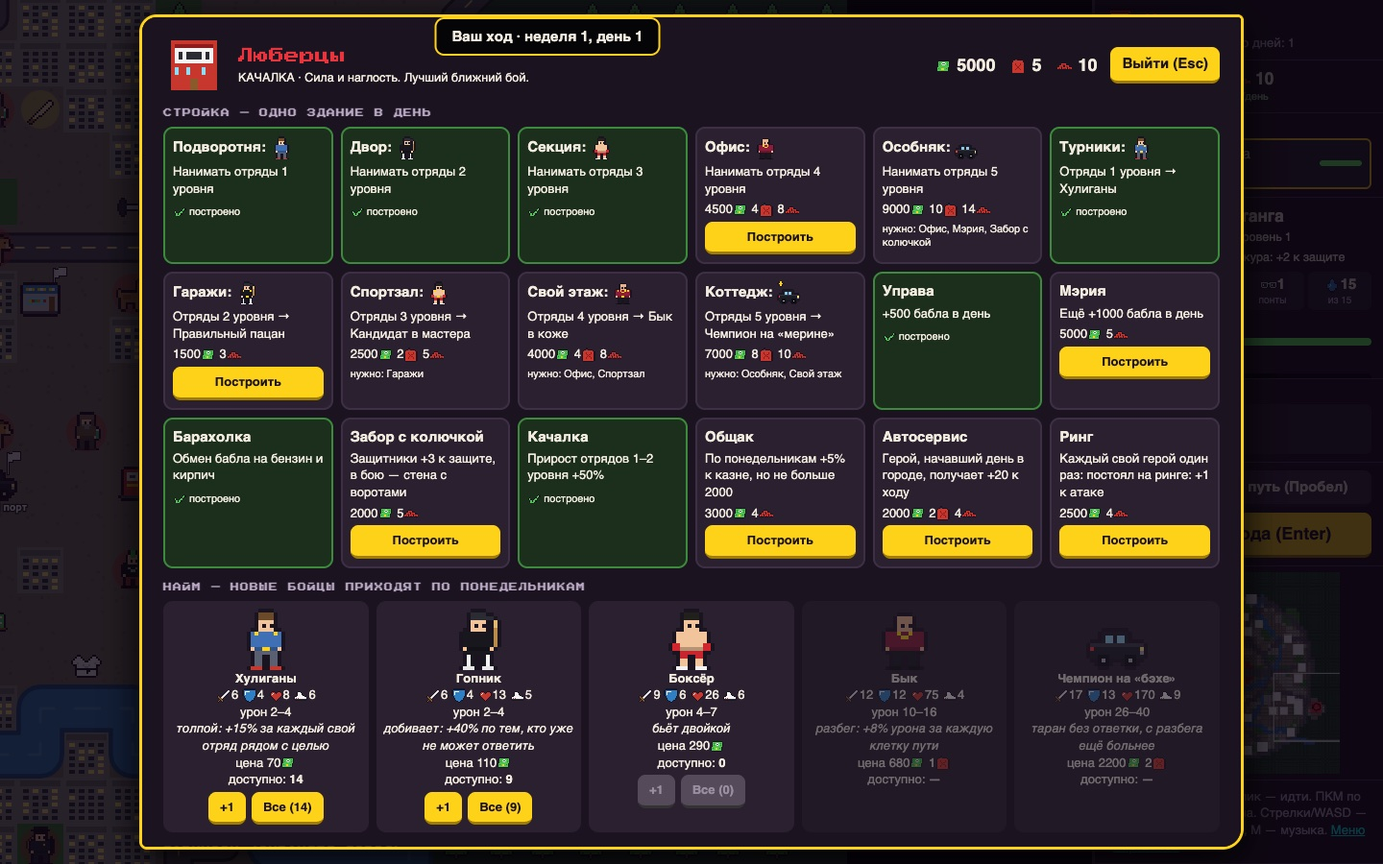
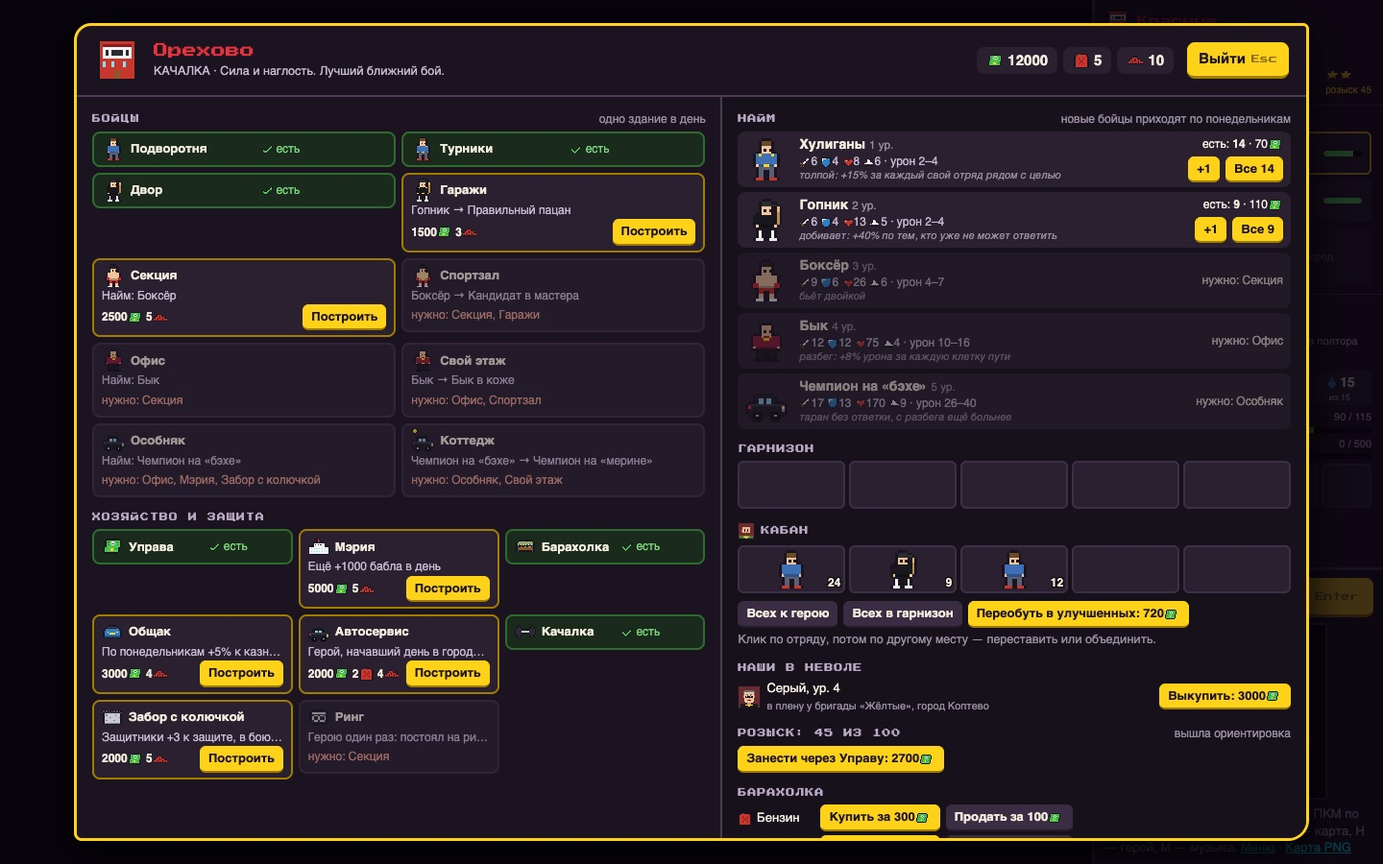
Вёрстка: окно города в две колонки, боковая панель с закреплёнными кнопками хода (#16)
Окно города: шапка с ресурсами; слева стройка — пары «найм + улучшение» по
уровням и хозяйство с защитой, построенное сворачивается в одну строку;
справа найм строками, гарнизон, герой, пленные, розыск и барахолка.
Каждая колонка прокручивается сама и не сбрасывает прокрутку при покупке.
Тост «Ваш ход» больше не налезает на окно.

Боковая панель: имя и ресурсы сверху, середина (герои, карточка героя,
города) прокручивается, кнопки хода и миникарта всегда внизу. Карточка героя
компактнее. На миникарте неразведанный город виден тёмным силуэтом.

Полосы прокрутки — в цвет игры. tests/layout.mjs снимает вёрстку на трёх
размерах окна.

diff --git a/js/screens.js b/js/screens.js
@@ -38,40 +38,64 @@ function bindSlots(root, armies, rerender) {
 // ---------- город ----------
 let townDone = null;
 function openTown(t, hero) {
-  return new Promise(res => { SLOT = null; townDone = res; $('town').hidden = false; renderTown(t, hero); });
+  return new Promise(res => { SLOT = null; townDone = res; $('town').hidden = false; $('toast').style.opacity = 0; renderTown(t, hero); });
 }
 function closeTown() { $('town').hidden = true; SLOT = null; refresh(); if (townDone) { const r = townDone; townDone = null; r(); } }
+// значки зданий хозяйства и защиты
+const BICON = { adm1: 'r_gold', adm2: 'whitehouse', market: 'stall', bank: 'chest', garage: 'champ', gym: 'b_att', fence: 'o_fence', club: 'amp' };
 function renderTown(t, hero) {
+  const keep = [...document.querySelectorAll('#townBox .tcol')].map(c => c.scrollTop);
   hero = hero && heroById(hero.id) && hero.x === t.x && hero.y === t.y ? hero : heroAt(t.x, t.y);
   if (hero && hero.owner !== t.owner) hero = null;
-  const p = G.players[t.owner], F = FACTIONS[t.fac], units = F.units;
-  const bcard = b => {
-    const st = buildState(t, b), need = [].concat(b.req || []).filter(r => !t.built[r]).map(r => BLD[r].name).join(', ');
-    const label = { built: `${ico('i_ok', 14)} построено`, req: `нужно: ${need}`, today: 'сегодня уже строили', money: 'не хватает', ok: '' }[st];
-    const name = b.tier ? `${b.name}: ${unitIcon(units[b.tier - 1], 24)}` : b.up ? `${b.name}: ${unitIcon(units[b.up - 1] + '2', 24)}` : b.id === 'club' ? F.club.name : b.name;
-    const desc = b.up ? `Отряды ${b.up} уровня → ${UNITS[units[b.up - 1] + '2'].name}` : b.id === 'club' ? `Каждый свой герой один раз: ${F.club.text}` : b.desc;
-    return `<div class="bcard ${st === 'built' ? 'built' : ''}"><b>${name}</b><span>${desc}</span><span>${st === 'built' ? '' : costText(b.cost)}</span>${st === 'ok' ? `<button data-b="${b.id}">Построить</button>` : `<small>${label}</small>`}</div>`;
+  const p = G.players[t.owner], F = FACTIONS[t.fac], units = F.units, today = t.builtDay === G.day;
+  // плитка постройки: значок и имя, одна строка описания, внизу цена с кнопкой — или что мешает
+  const tile = id => {
+    const b = BLD[id], st = buildState(t, b), need = [].concat(b.req || []).filter(r => !t.built[r]).map(r => BLD[r].name).join(', ');
+    const icon = b.tier ? unitIcon(units[b.tier - 1], 24) : b.up ? unitIcon(units[b.up - 1] + '2', 24) : ico(BICON[id] || 'i_ok', 22);
+    const name = b.id === 'club' ? F.club.name : b.name;
+    const desc = b.tier ? `Найм: ${UNITS[units[b.tier - 1]].name}` : b.up ? `${UNITS[units[b.up - 1]].name} → ${UNITS[units[b.up - 1] + '2'].name}` : b.id === 'club' ? `Герою один раз: ${F.club.text}` : b.desc;
+    const foot = st === 'built' ? `${ico('i_ok', 12)} построено`
+      : st === 'req' ? `<span class="need" title="нужно: ${need}">нужно: ${need}</span>`
+        : `<span class="cost">${costText(b.cost)}</span>${st === 'ok' ? `<button class="sm" data-b="${b.id}">Построить</button>` : `<span class="note">${st === 'today' ? 'завтра' : 'не хватает'}</span>`}`;
+    return `<div class="bt ${st === 'built' ? 'built' : st === 'ok' ? 'ok' : st === 'req' ? 'lock' : ''}" title="${name}: ${desc}"><div class="t1">${icon}<span>${name}</span>${st === 'built' ? `<span class="done">${ico('i_ok', 12)} есть</span>` : ''}</div><div class="ds">${desc}</div><div class="ft">${foot}</div></div>`;
   };
-  const rcard = (u, i) => {
+  // строка найма: боец, его цифры и особенность, справа — сколько есть и кнопки
+  const rrow = (u, i) => {
     const v = townUnit(t, i), U = UNITS[v], ok = t.built['dw' + (i + 1)], n = t.avail[u] || 0, mx = maxRecruit(t, u);
-    return `<div class="rcard ${ok ? '' : 'lock'}"><div class="em">${unitIcon(v, 64)}</div><b>${U.name}</b><br>${ico('i_att', 16)}${U.att} ${ico('i_def', 16)}${U.def} ${ico('i_hp', 16)}${U.hp} ${ico('i_spd', 16)}${U.spd}<br>урон ${U.dmg[0]}–${U.dmg[1]}${U.shots ? ' · стрелок' : ''}${U.fly ? ' · прыгает' : ''}<br><i>${U.note || '&nbsp;'}</i><br>
-      цена ${costText(U.cost)}<br>доступно: <b>${ok ? n : '—'}</b><br>${ok ? `<div class="btns" style="justify-content:center;margin-top:4px"><button data-r="${u}" data-n="1" ${mx ? '' : 'disabled'}>+1</button><button data-r="${u}" data-n="${mx}" ${mx ? '' : 'disabled'}>Все (${mx})</button></div>` : ''}</div>`;
+    const act = ok ? `<span>есть: <b>${n}</b> · ${costText(U.cost)}</span><div class="btns"><button class="sm" data-r="${u}" data-n="1" ${mx ? '' : 'disabled'}>+1</button><button class="sm" data-r="${u}" data-n="${mx}" ${mx ? '' : 'disabled'}>Все ${mx}</button></div>`
+      : `<span class="need">нужно: ${BLD['dw' + (i + 1)].name}</span>`;
+    return `<div class="rr ${ok ? '' : 'lock'}"><span class="ic">${unitIcon(v, 44)}</span><span class="nm">${U.name} <small style="color:#9a8fa0;font-weight:normal">${i + 1} ур.</small></span>
+      <span class="st2">${ico('i_att', 12)}${U.att} ${ico('i_def', 12)}${U.def} ${ico('i_hp', 12)}${U.hp} ${ico('i_spd', 12)}${U.spd} · урон ${U.dmg[0]}–${U.dmg[1]}${U.shots ? ` · ${ico('i_shot', 12)}${U.shots}` : ''}</span>
+      <span class="tr" title="${U.note || ''}">${U.note || ''}</span><span class="act">${act}</span></div>`;
   };
   const upList = [...t.garrison, ...(hero ? hero.army : [])].map(x => upgradeCost(t, x)).filter(Boolean), upSum = upList.reduce((a, c) => a + c, 0), upMin = upList.length ? Math.min(...upList) : 0;
   const jl = myJailed(t.owner), held = jail().filter(j => j.at === t.id && j.captor === t.owner && j.hero.owner !== t.owner);
-  const jailHtml = jl.length ? `<h3>Наши в неволе</h3><div class="btns" style="margin-bottom:10px">${jl.map((j, k) => `<button class="sec" data-ran="${k}">${heroIco(j.hero, 24)} ${j.hero.name}, ур. ${j.hero.lvl} — ${jailPlace(j)} · ${ransomOf(j) ? `выкуп ${ransomOf(j)}${resIco('gold', 16)}` : 'позвать бесплатно'}</button>`).join('')}</div>` : '';
-  const heldHtml = held.length ? `<div style="margin-bottom:10px"><small>В этом городе держат пленных: ${held.map(j => `${j.hero.name} (${G.players[j.hero.owner].name}), выкуп ${ransomOf(j)}`).join('; ')}. Возьмут город — пленные уйдут.</small></div>` : '';
-  const heatHtml = (p.heat || 0) >= 10 ? `<h3>Розыск: ${p.heat} из 100${p.heat >= HEAT_RAID ? ' — в понедельник приедет ОМОН' : p.heat >= HEAT_WARN ? ' — на бригаду вышла ориентировка' : ''}</h3><div class="btns" style="margin-bottom:10px">${t.built.adm1 ? `<button id="bribeBtn" ${p.res.gold >= bribeCost(p) ? '' : 'disabled'}>Занести через Управу: ${bribeCost(p)}${resIco('gold', 16)} — розыск снят</button>` : '<small>Откупиться можно в городе с Управой</small>'}</div>` : '';
-  const market = t.built.market ? `<h3>Барахолка${G.def && G.def.done ? ' — после дефолта всё втрое дороже' : ''}</h3><div class="btns">${['fuel', 'brick'].map(r => `<button data-buy="${r}">Купить ${resIco(r)} за ${tradeBuy()}${resIco('gold', 16)}</button><button class="sec" data-sell="${r}">Продать ${resIco(r)} за ${tradeSell()}${resIco('gold', 16)}</button>`).join('')}</div>` : '';
+  const extra = [
+    jl.length ? `<div class="sect"><h3>Наши в неволе</h3>${jl.map((j, k) => `<div class="mrow">${heroIco(j.hero, 24)}<span style="flex:1">${j.hero.name}, ур. ${j.hero.lvl}<br><small style="color:#9a8fa0">${jailPlace(j)}</small></span><button class="sm" data-ran="${k}">${ransomOf(j) ? `Выкупить: ${ransomOf(j)}${resIco('gold', 14)}` : 'Позвать'}</button></div>`).join('')}</div>` : '',
+    held.length ? `<div class="sect"><small style="color:#c9bcd2">Здесь держат пленных: ${held.map(j => `${j.hero.name} (${G.players[j.hero.owner].name}), выкуп ${ransomOf(j)}`).join('; ')}. Возьмут город — пленные уйдут.</small></div>` : '',
+    (p.heat || 0) >= 10 ? `<div class="sect"><h3>Розыск: ${p.heat} из 100<span>${p.heat >= HEAT_RAID ? 'в понедельник приедет ОМОН' : p.heat >= HEAT_WARN ? 'вышла ориентировка' : ''}</span></h3>${t.built.adm1 ? `<button class="sm" id="bribeBtn" ${p.res.gold >= bribeCost(p) ? '' : 'disabled'}>Занести через Управу: ${bribeCost(p)}${resIco('gold', 14)}</button>` : '<small style="color:#9a8fa0">Откупиться можно в городе с Управой</small>'}</div>` : '',
+    t.built.market ? `<div class="sect"><h3>Барахолка<span>${G.def && G.def.done ? 'после дефолта всё втрое дороже' : ''}</span></h3>${['fuel', 'brick'].map(r => `<div class="mrow"><span>${resIco(r, 16)} ${RES_NAME[r]}</span><button class="sm" data-buy="${r}">Купить за ${tradeBuy()}${resIco('gold', 14)}</button><button class="sec sm" data-sell="${r}">Продать за ${tradeSell()}${resIco('gold', 14)}</button></div>`).join('')}</div>` : '',
+  ].join('');
   $('townBox').innerHTML = `
-    <div style="display:flex;align-items:center;gap:14px">${ico('t_' + t.fac, 64)}<div><div class="fun" style="font-size:16px;color:${p.col}">${t.name}</div><small>${F.name} · ${F.desc}</small></div>
-      <div style="margin-left:auto;font-size:18px;font-weight:bold">${RES.map(r => `${resIco(r)} ${p.res[r]}`).join(' &nbsp; ')}</div><button id="tClose">Выйти (Esc)</button></div>
-    <h3 style="margin-top:12px">Стройка — одно здание в день</h3><div class="tgrid">${BUILDINGS.map(bcard).join('')}</div>
-    <h3>Найм — новые бойцы приходят по понедельникам</h3><div class="rgrid">${units.map(rcard).join('')}</div>
-    <div class="row">${armyRow(t.garrison, 'g', 'Гарнизон (охраняет город)')}${hero ? armyRow(hero.army, 'h', `${heroIco(hero, 24)} ${hero.name}`) : ''}</div>
-    <div class="btns" style="margin:10px 0">${hero ? '<button class="sec" id="allH">Всех к герою</button><button class="sec" id="allG">Всех в гарнизон</button>' : `<button id="hire">Нанять героя за ${HERO_COST}${resIco('gold', 16)}</button>`}${upSum ? `<button id="upAll" ${p.res.gold >= upMin ? '' : 'disabled'}>Переобуть отряды в улучшенных: ${upSum}${resIco('gold', 16)}</button>` : ''}<small style="align-self:center">Клик по отряду, потом по другому месту — переставить или объединить.</small></div>
-    ${jailHtml}${heldHtml}${heatHtml}
-    ${market}`;
+    <div class="th">${ico('t_' + t.fac, 48)}<div><div class="nm" style="color:${p.col}">${t.name}</div><small>${F.name} · ${F.desc}</small></div>
+      <div class="chips">${RES.map(r => `<span class="chip">${resIco(r, 18)} ${p.res[r]}</span>`).join('')}</div><button id="tClose">Выйти <kbd>Esc</kbd></button></div>
+    <div class="tb">
+      <div class="tcol">
+        <h3>Бойцы<span>${today ? 'сегодня уже строили — следующее здание завтра' : 'одно здание в день'}</span></h3>
+        <div class="bgrid">${[1, 2, 3, 4, 5].map(i => tile('dw' + i) + tile('up' + i)).join('')}</div>
+        <h3>Хозяйство и защита</h3><div class="bgrid b3">${['adm1', 'adm2', 'market', 'bank', 'garage', 'gym', 'fence', 'club'].map(tile).join('')}</div>
+      </div>
+      <div class="tcol">
+        <h3>Найм<span>новые бойцы приходят по понедельникам</span></h3>
+        ${units.map(rrow).join('')}
+        <div class="sect">${armyRow(t.garrison, 'g', 'Гарнизон')}</div>
+        <div class="sect">${hero ? armyRow(hero.army, 'h', `${heroIco(hero, 18)} ${hero.name}`) : `<h3>Героя в городе нет</h3>`}</div>
+        <div class="btns" style="margin-top:8px">${hero ? '<button class="sec sm" id="allH">Всех к герою</button><button class="sec sm" id="allG">Всех в гарнизон</button>' : `<button class="sm" id="hire">Нанять героя: ${HERO_COST}${resIco('gold', 14)}</button>`}${upSum ? `<button class="sm" id="upAll" ${p.res.gold >= upMin ? '' : 'disabled'}>Переобуть в улучшенных: ${upSum}${resIco('gold', 14)}</button>` : ''}</div>
+        <small style="color:#9a8fa0;display:block;margin-top:4px">Клик по отряду, потом по другому месту — переставить или объединить.</small>
+        ${extra}
+      </div>
+    </div>`;
+  document.querySelectorAll('#townBox .tcol').forEach((c, i) => { c.scrollTop = keep[i] || 0; });
   const R = () => renderTown(t, hero), box = $('townBox');
   $('tClose').onclick = closeTown;
   box.querySelectorAll('[data-ran]').forEach(el => el.onclick = () => { const r = ransom(t, jl[+el.dataset.ran]); if (typeof r === 'string') toast(r, true); else { selectHero(r); hero = r; } R(); });
@@ -98,7 +122,7 @@ function openExchange(a, b) {
   return new Promise(res => {
     SLOT = null; $('exch').hidden = false;
     const R = () => {
-      $('exchBox').innerHTML = `<div class="fun" style="font-size:16px;color:var(--gold)">Встреча</div><div class="row">${armyRow(a.army, 'a', `${heroIco(a, 24)} ${a.name}`)}${armyRow(b.army, 'b', `${heroIco(b, 24)} ${b.name}`)}</div>
+      $('exchBox').innerHTML = `<div class="fun" style="font-size:14px;color:var(--gold);margin-bottom:10px">${ico('i_meet', 20)} Встреча</div><small style="color:#9a8fa0;display:block;margin-bottom:8px">Клик по отряду, потом по другому месту — переставить или объединить.</small><div class="row">${armyRow(a.army, 'a', `${heroIco(a, 24)} ${a.name}`)}${armyRow(b.army, 'b', `${heroIco(b, 24)} ${b.name}`)}</div>
         <div class="btns" style="margin-top:12px"><button id="xClose">Готово</button></div>`;
       bindSlots($('exchBox'), { a: { arr: a.army, hero: true }, b: { arr: b.army, hero: true } }, R);
       $('xClose').onclick = () => { $('exch').hidden = true; refresh(); res(); };
@@ -145,8 +169,8 @@ $('bWait').onclick = () => battleWait();
 $('bDef').onclick = () => battleDefend();
 $('bCast').onclick = () => toggleSpells();
 $('bAuto').onclick = () => battleAuto();
-$('goBtn').innerHTML = `${ico('i_play', 16)} Продолжить путь (Пробел)`;
-$('endBtn').innerHTML = `${ico('i_next', 18)} Конец хода (Enter)`;
+$('goBtn').innerHTML = `${ico('i_play', 14)} Путь <kbd>␣</kbd>`;
+$('endBtn').innerHTML = `${ico('i_next', 16)} Конец хода <kbd>Enter</kbd>`;
 $('bWait').innerHTML = btnLbl('i_wait', 'Ждать', 'W');
 $('bDef').innerHTML = btnLbl('i_def', 'Оборона', 'D');
 $('bAuto').innerHTML = btnLbl('i_bot', 'Авто', 'A');

diff --git a/index.html b/index.html
@@ -14,43 +14,67 @@
   .fun { font-family: "Press Start 2P", "Courier New", monospace; line-height: 1.5; letter-spacing: 0; }
   .st { text-shadow: 2px 2px 0 #000, -2px 2px 0 #000, 2px -2px 0 #000, -2px -2px 0 #000; }
   #cv { position: fixed; left: 0; top: 0; }
+  /* полосы прокрутки — в цвет игры */
+  * { scrollbar-width: thin; scrollbar-color: #4a3a52 transparent; }
+  ::-webkit-scrollbar { width: 8px; height: 8px; }
+  ::-webkit-scrollbar-thumb { background: #4a3a52; border-radius: 4px; }
+  ::-webkit-scrollbar-thumb:hover { background: #6b5876; }
+  ::-webkit-scrollbar-track { background: transparent; }
+
+  /* ---------- боковая панель: шапка и ресурсы сверху, середина прокручивается, кнопки хода всегда внизу ---------- */
   #side { position: fixed; right: 0; top: 0; bottom: 0; width: 300px; background: var(--panel); border-left: 3px solid var(--line); display: flex; flex-direction: column; overflow: hidden; }
-  #side > div { padding: 8px 12px; border-bottom: 1px solid var(--line); }
-  #pName { font-size: 13px; }
-  #pDay { color: #b9a9c4; font-size: 13px; }
-  #pRes { display: flex; gap: 12px; font-size: 17px; font-weight: bold; }
-  #pRes small { display: block; font-size: 11px; color: #9fd89f; font-weight: normal; }
+  #sTop { padding: 10px 12px 6px; }
+  #pName { font-size: 12px; display: flex; align-items: center; gap: 8px; }
+  #pDay { color: #b9a9c4; font-size: 12px; margin-top: 4px; line-height: 1.4; }
+  #pRes { display: grid; grid-template-columns: repeat(4, auto); justify-content: space-between; padding: 6px 12px 8px; border-bottom: 1px solid var(--line); font-size: 15px; font-weight: bold; }
+  #pRes > div { display: flex; flex-direction: column; }
+  #pRes small { font-size: 10px; color: #9fd89f; font-weight: normal; }
+  #sScroll { flex: 1; min-height: 0; overflow-y: auto; }
+  #sScroll > section, #sScroll > div { padding: 8px 12px; border-bottom: 1px solid var(--line); }
+  #sScroll > div[hidden] { display: none; }
+  #sFoot { border-top: 3px solid var(--line); padding: 8px 10px; display: flex; flex-direction: column; gap: 6px; background: #17111c; }
+  #sFoot .row2 { display: grid; grid-template-columns: auto 1fr; gap: 6px; }
+  #goBtn { padding: 8px 10px; font-size: 13px; }
+  #endBtn { font-size: 15px; padding: 9px 10px; }
+  #mini { width: min(180px, 20vh); height: auto; margin: 0 auto; image-rendering: pixelated; cursor: pointer; display: block; border: 2px solid var(--line); border-radius: 4px; }
+  #help { font-size: 11px; color: #9a8fa0; line-height: 1.35; }
+  @media (max-height: 760px) { #help { display: none; } }
   .lst { display: flex; flex-direction: column; gap: 4px; }
-  .li { display: flex; align-items: center; gap: 8px; padding: 4px 8px; border-radius: 6px; background: #2a2030; cursor: pointer; border: 2px solid transparent; }
+  .li { display: flex; align-items: center; gap: 8px; padding: 3px 8px; border-radius: 6px; background: #2a2030; cursor: pointer; border: 2px solid transparent; font-size: 14px; line-height: 1.25; }
   .li:hover { background: #3a2c42; }
   .li.on { border-color: var(--gold); }
-  .li .em { font-size: 22px; }
-  .li .mpb { margin-left: auto; width: 44px; height: 6px; background: #000; border-radius: 3px; overflow: hidden; }
+  .li small { color: #b9a9c4; font-size: 11px; }
+  .li .mpb { margin-left: auto; width: 40px; height: 6px; background: #000; border-radius: 3px; overflow: hidden; flex: none; }
   .li .mpb i { display: block; height: 100%; background: #6f6; }
-  h3 { margin: 0 0 6px; font-size: 9px; color: #b9a9c4; text-transform: uppercase; letter-spacing: 1px; }
-  #hCard { flex: 1; overflow: auto; }
-  .stats { display: grid; grid-template-columns: repeat(4, 1fr); gap: 4px; text-align: center; font-weight: bold; margin: 6px 0; }
-  .stats div { background: #2a2030; border-radius: 6px; padding: 3px 0; }
-  .stats small { display: block; font-size: 10px; color: #b9a9c4; font-weight: normal; }
-  .bar { height: 8px; background: #000; border-radius: 4px; overflow: hidden; margin: 3px 0 6px; }
+  h3 { margin: 0 0 6px; font: 9px/1.5 "Press Start 2P", monospace; color: #b9a9c4; text-transform: uppercase; letter-spacing: 1px; }
+  /* карточка героя */
+  .hc-head { display: flex; gap: 10px; align-items: center; }
+  .hc-head img.spr { border-radius: 4px; flex: none; }
+  .hc-head b { font-size: 15px; display: block; }
+  .hc-head small { display: block; font-size: 11px; color: #c9bcd2; line-height: 1.3; }
+  .stats { display: grid; grid-template-columns: repeat(4, 1fr); gap: 4px; text-align: center; font-weight: bold; margin: 8px 0 6px; font-size: 14px; }
+  .stats div { background: #2a2030; border-radius: 6px; padding: 3px 0 2px; }
+  .stats small { display: block; font-size: 9px; color: #b9a9c4; font-weight: normal; }
+  .meter { display: flex; justify-content: space-between; font-size: 11px; color: #c9bcd2; }
+  .bar { height: 6px; background: #000; border-radius: 3px; overflow: hidden; margin: 2px 0 5px; }
   .bar i { display: block; height: 100%; }
   .slots { display: grid; grid-template-columns: repeat(5, 1fr); gap: 4px; }
-  .slot { height: 54px; background: #2a2030; border: 2px solid #3d3046; border-radius: 6px; position: relative; display: flex; align-items: center; justify-content: center; font-size: 26px; cursor: pointer; }
+  .slot { height: 50px; background: #2a2030; border: 2px solid #3d3046; border-radius: 6px; position: relative; display: flex; align-items: center; justify-content: center; cursor: pointer; }
+  .slots.sm .slot { height: 42px; cursor: default; }
+  .slot b { position: absolute; right: 3px; bottom: 1px; font-size: 12px; text-shadow: 1px 1px 0 #000, -1px -1px 0 #000, 1px -1px 0 #000, -1px 1px 0 #000; }
+  .slot.sel { border-color: var(--gold); background: #4a3a10; }
+  .arts { display: flex; flex-wrap: wrap; gap: 3px; margin-top: 6px; }
+  .arts small { color: #9a8fa0; font-size: 11px; }
   img.spr { image-rendering: pixelated; vertical-align: middle; }
   .dot { display: inline-block; width: 9px; height: 9px; border-radius: 50%; background: #6b6472; margin-right: 5px; vertical-align: middle; }
   .dot.on { background: #4cc552; }
   button img.spr { margin-right: 3px; }
-  .slot b { position: absolute; right: 3px; bottom: 1px; font-size: 13px; text-shadow: 1px 1px 0 #000, -1px -1px 0 #000; }
-  .slot.sel { border-color: var(--gold); background: #4a3a10; }
-  .arts { display: flex; flex-wrap: wrap; gap: 4px; margin-top: 6px; font-size: 22px; }
   .btns { display: flex; gap: 6px; flex-wrap: wrap; }
-  h3 { font-family: "Press Start 2P", monospace; }
   button { font: inherit; font-weight: bold; color: #1b1420; background: var(--gold); border: 0; border-bottom: 3px solid #a07c00; border-radius: 8px; padding: 7px 12px; cursor: pointer; }
   button:hover { filter: brightness(1.1); }
   button:disabled { background: #554a5a; color: #9a8fa0; border-color: #333; cursor: default; filter: none; }
   button.sec { background: #3a2c42; color: #f2ecdf; border-color: #241a2a; }
-  #endBtn { width: 100%; font-size: 18px; padding: 10px; }
-  #mini { width: 210px; margin: 6px auto; image-rendering: pixelated; cursor: pointer; display: block; }
+  button.sm { padding: 4px 9px; font-size: 13px; border-bottom-width: 2px; border-radius: 6px; }
   #toast { position: fixed; left: calc(50% - 150px); top: 18px; transform: translateX(-50%); background: rgba(0,0,0,.82); border: 2px solid var(--gold); border-radius: 10px; padding: 8px 16px; font-weight: bold; opacity: 0; transition: opacity .25s; pointer-events: none; z-index: 50; max-width: 60vw; text-align: center; }
   .ov { position: fixed; inset: 0; background: rgba(10,4,16,.78); display: flex; align-items: center; justify-content: center; z-index: 30; }
   .ov[hidden] { display: none; }
@@ -91,17 +115,52 @@
   .pcard a { color: #0ff; }
   .pcard button { padding: 4px 10px; font-size: 14px; }
   #lobbyNote { color: #c9bcd2; font-size: 14px; margin-bottom: 8px; min-height: 19px; }
-  #town .box, #exch .box { max-width: 1100px; width: 92vw; max-height: 92vh; overflow: auto; }
-  .tgrid { display: grid; grid-template-columns: repeat(6, 1fr); gap: 8px; margin: 8px 0 14px; }
-  .bcard { background: #2a2030; border-radius: 10px; padding: 8px; font-size: 13px; border: 2px solid #3d3046; display: flex; flex-direction: column; gap: 4px; }
-  .bcard b { font-size: 15px; }
-  .bcard.built { border-color: #3c8a3c; background: #1c2e1c; }
-  .rgrid { display: grid; grid-template-columns: repeat(5, 1fr); gap: 8px; margin: 8px 0 14px; }
-  .rcard { background: #2a2030; border-radius: 10px; padding: 8px; text-align: center; font-size: 13px; }
-  .rcard .em { font-size: 40px; }
-  .rcard.lock { opacity: .4; }
+  /* ---------- окно города: шапка, слева стройка, справа найм и армия; прокручивается каждая колонка сама ---------- */
+  #town .box { width: min(1280px, 95vw); height: min(860px, 94vh); max-width: none; padding: 0; display: flex; flex-direction: column; overflow: hidden; }
+  .th { display: flex; align-items: center; gap: 14px; padding: 12px 18px; border-bottom: 2px solid var(--line); }
+  .th .nm { font: 15px/1.4 "Press Start 2P", monospace; }
+  .th small { color: #c9bcd2; }
+  .chips { margin-left: auto; display: flex; gap: 6px; }
+  .chip { background: #2a2030; border-radius: 8px; padding: 4px 10px; font-weight: bold; font-size: 15px; display: flex; align-items: center; gap: 4px; }
+  .tb { flex: 1; min-height: 0; display: grid; grid-template-columns: 1.1fr 1fr; }
+  .tcol { overflow-y: auto; padding: 12px 16px 16px; }
+  .tcol + .tcol { border-left: 2px solid var(--line); background: #17111c; }
+  .tcol h3 { display: flex; justify-content: space-between; align-items: baseline; margin-top: 4px; }
+  .tcol h3 span { font: 12px -apple-system, "Segoe UI", sans-serif; text-transform: none; letter-spacing: 0; color: #9a8fa0; }
+  .bgrid { display: grid; grid-template-columns: 1fr 1fr; gap: 6px; margin-bottom: 14px; align-items: start; }
+  .bgrid.b3 { grid-template-columns: repeat(3, 1fr); }
+  .bt { background: #2a2030; border: 2px solid #3d3046; border-radius: 8px; padding: 4px 8px 5px; display: flex; flex-direction: column; gap: 1px; min-width: 0; font-size: 12px; }
+  .bt .t1 { display: flex; align-items: center; gap: 6px; font-weight: bold; font-size: 13px; min-height: 24px; }
+  .bt .t1 span { flex: 1; min-width: 0; white-space: nowrap; overflow: hidden; text-overflow: ellipsis; }
+  .bt .ds { color: #c9bcd2; white-space: nowrap; overflow: hidden; text-overflow: ellipsis; }
+  .bt .ft { display: flex; align-items: center; justify-content: space-between; gap: 6px; min-height: 22px; }
+  .bt .cost { white-space: nowrap; font-weight: bold; }
+  .bt .need { color: #e79a8a; white-space: nowrap; overflow: hidden; text-overflow: ellipsis; }
+  .bt .note { color: #9a8fa0; }
+  .bt.built { border-color: #2f6b2f; background: #1a2a1c; }
+  .bt.built .ds { display: none; }               /* построенное — одной строкой: имя и галочка */
+  .bt.built .t1 { justify-content: space-between; }
+  .bt.built .ft { display: none; }
+  .bt .done { color: #7dd87d; font-size: 12px; font-weight: normal; white-space: nowrap; }
+  .bt.built .ft { color: #7dd87d; }
+  .bt.ok { border-color: #a07c00; }
+  .bt.lock { opacity: .62; }
+  .rr { display: grid; grid-template-columns: 46px 1fr auto; gap: 0 10px; align-items: center; background: #2a2030; border-radius: 8px; padding: 4px 8px; margin-bottom: 5px; }
+  .rr .nm { font-weight: bold; font-size: 14px; }
+  .rr .st2 { font-size: 12px; color: #c9bcd2; white-space: nowrap; }
+  .rr .tr { font-size: 11px; color: #9a8fa0; font-style: italic; white-space: nowrap; overflow: hidden; text-overflow: ellipsis; }
+  .rr .act { grid-row: 1 / 4; grid-column: 3; display: flex; flex-direction: column; align-items: flex-end; gap: 4px; font-size: 12px; }
+  .rr .ic { grid-row: 1 / 4; }
+  .rr.lock { opacity: .5; }
+  .sect { margin-top: 14px; }
+  .mrow { display: flex; align-items: center; gap: 6px; margin-bottom: 4px; font-size: 13px; }
+  .mrow > span:first-child { min-width: 80px; }
+  /* ---------- обмен между героями ---------- */
+  #exch .box { width: min(760px, 94vw); }
   .row { display: flex; gap: 16px; align-items: flex-start; flex-wrap: wrap; }
-  .army { flex: 1; min-width: 300px; }
+  .army { flex: 1; min-width: 260px; }
+  .army h3 { justify-content: flex-start !important; gap: 6px; align-items: center !important; }
+  .tcol .slot { height: 46px; }
   #bui { position: fixed; left: 0; top: 0; bottom: 0; right: 300px; pointer-events: none; z-index: 20; }
   #bui[hidden] { display: none; }
   #bTop { position: absolute; left: 0; right: 0; top: 10px; text-align: center; font-size: 11px; font-weight: bold; }
@@ -141,18 +200,19 @@
 <canvas id="cv"></canvas>
 
 <div id="side">
-  <div><div id="pName" class="fun"></div><div id="pDay"></div></div>
+  <div id="sTop"><div id="pName" class="fun"></div><div id="pDay"></div></div>
   <div id="pRes"></div>
-  <div><h3>Герои</h3><div id="heroList" class="lst"></div></div>
-  <div id="hCard"></div>
-  <div><h3>Города</h3><div id="townList" class="lst"></div></div>
-  <div class="btns" style="flex-direction:column">
-    <button id="goBtn" class="sec">Продолжить путь (Пробел)</button>
-    <button id="endBtn">Конец хода (Enter)</button>
+  <div id="sScroll">
+    <section><h3>Герои</h3><div id="heroList" class="lst"></div></section>
+    <section id="hCard"></section>
+    <section><h3>Города</h3><div id="townList" class="lst"></div></section>
+    <div id="netBox" hidden></div>
   </div>
-  <div style="padding:0"><canvas id="mini" width="176" height="176"></canvas></div>
-  <div id="netBox" hidden></div>
-  <div id="help">Клик — путь, второй клик — идти. ПКМ по своему герою — встреча. Стрелки/WASD — карта, H — след. герой, M — музыка. <a href="#" id="menuLink" style="color:#0ff">Меню</a> · <a href="#" id="guideLink" style="color:#0ff">Карта PNG</a></div>
+  <div id="sFoot">
+    <div class="row2"><button id="goBtn" class="sec" title="Продолжить путь (Пробел)">Путь</button><button id="endBtn">Конец хода</button></div>
+    <canvas id="mini" width="176" height="176"></canvas>
+    <div id="help">Клик — путь, второй клик — идти. ПКМ по своему герою — встреча. WASD — карта, H — герой, M — музыка. <a href="#" id="menuLink" style="color:#0ff">Меню</a> · <a href="#" id="guideLink" style="color:#0ff">Карта PNG</a></div>
+  </div>
 </div>
 
 <div id="toast"></div>

diff --git a/js/ui.js b/js/ui.js
@@ -326,29 +326,29 @@ const anyOverlay = () => ['modal', 'town', 'exch', 'curtain', 'menu'].some(id =>
 function refresh() {
   if (!G) return;
   const watch = BOTTING || netWatching(), p = watch ? viewP() : curP(), inc = dailyIncome(p.id);
-  $('pName').innerHTML = `${ico('t_' + p.fac, 28)} ${esc(p.name)}`; $('pName').style.color = p.col;
+  $('pName').innerHTML = `${ico('t_' + p.fac, 24)} <span>${esc(p.name)}</span>`; $('pName').style.color = p.col;
   $('pDay').innerHTML = NET.on && G.sim && !BOTTING ? (watch ? `<b>${ico('i_wait', 16)} День сдан. Ждём остальных…</b>` : `<b>${ico('i_net', 16)} Общий день: все ходят сразу</b> · неделя ${weekNo()}, день ${dayOfWeek()}`)
     : watch ? `<b style="color:${curP().col}">${ico(isBot(G.cur) ? 'i_bot' : 'i_net', 16)} Ходит: ${esc(curP().name)}…</b>` : `Неделя ${weekNo()}, день ${dayOfWeek()} · всего дней: ${G.day}`;
-  { const k = keyState(); if (k) $('pDay').innerHTML += `<br><span style="color:${pcol(k.owner)}">${ico('a_key', 14)} Ключ от Кремля у «${esc(G.players[k.owner].name)}»: ещё ${Math.max(0, k.left)} дн.</span>`; }
   { const k = keyState(); if (k) $('pDay').innerHTML += `<br><span style="color:${pcol(k.owner)}">${ico('a_key', 14)} Ключ от Кремля у «${esc(G.players[k.owner].name)}»: ещё ${Math.max(0, k.left)} дн.</span>`; }
   $('endBtn').disabled = watch;
   netBox(); netDirty();
   const st = heatStars(p);
-  $('pRes').innerHTML = RES.map(r => `<div>${resIco(r, 22)} ${p.res[r]}<small>+${inc[r]}/день</small></div>`).join('') + `<div title="Розыск: ${p.heat || 0} из 100. Копится за драки, захваты и крыши, сам остывает. С ${HEAT_RAID} в понедельник приезжает ОМОН. Откупиться — в городе с Управой или на Петровке.">${st ? ico('i_star', 16).repeat(st) : '—'}<small style="color:${(p.heat || 0) >= HEAT_RAID ? '#ff6b6b' : (p.heat || 0) >= HEAT_WARN ? '#ffd21a' : '#b9a9c4'}">розыск ${p.heat || 0}</small></div>`;
-  $('heroList').innerHTML = myHeroes(p.id).map(h => `<div class="li ${h.id === UI.sel ? 'on' : ''}" data-h="${h.id}"><span class="em">${heroIco(h, 32)}</span><span>${h.name}<br><small>ур. ${h.lvl}</small></span><span class="mpb"><i style="width:${Math.round(100 * h.mp / heroMaxMp(h))}%"></i></span></div>`).join('') + myJailed(p.id).map(j => `<div class="li" style="opacity:.55;cursor:default"><span class="em">${heroIco(j.hero, 32)}</span><span>${j.hero.name}<br><small>${jailPlace(j)}</small></span></div>`).join('') || '<small>Героев нет — наймите в городе</small>';
-  $('townList').innerHTML = myTowns(p.id).map(t => `<div class="li" data-t="${t.id}"><span class="em">${ico('t_' + t.fac, 32)}</span><span>${t.name}<br><small>${t.builtDay === G.day ? 'сегодня уже строили' : 'можно строить'}</small></span></div>`).join('') || '<small>Городов нет! Захватите любой за 7 дней</small>';
+  $('pRes').innerHTML = RES.map(r => `<div><span>${resIco(r, 18)} ${p.res[r]}</span><small>+${inc[r]}</small></div>`).join('') + `<div title="Розыск: ${p.heat || 0} из 100. Копится за драки, захваты и крыши, сам остывает. С ${HEAT_RAID} в понедельник приезжает ОМОН. Откупиться — в городе с Управой или на Петровке."><span>${st ? ico('i_star', 14).repeat(st) : ico('police', 16)}</span><small style="color:${(p.heat || 0) >= HEAT_RAID ? '#ff6b6b' : (p.heat || 0) >= HEAT_WARN ? '#ffd21a' : '#b9a9c4'}">розыск ${p.heat || 0}</small></div>`;
+  $('heroList').innerHTML = myHeroes(p.id).map(h => `<div class="li ${h.id === UI.sel ? 'on' : ''}" data-h="${h.id}"><span class="em">${heroIco(h, 30)}</span><span>${h.name}<br><small>ур. ${h.lvl} · ход ${Math.floor(h.mp)}</small></span><span class="mpb"><i style="width:${Math.round(100 * h.mp / heroMaxMp(h))}%"></i></span></div>`).join('') + myJailed(p.id).map(j => `<div class="li" style="opacity:.55;cursor:default"><span class="em">${heroIco(j.hero, 30)}</span><span>${j.hero.name}<br><small>${jailPlace(j)}</small></span></div>`).join('') || '<small>Героев нет — наймите в городе</small>';
+  $('townList').innerHTML = myTowns(p.id).map(t => `<div class="li" data-t="${t.id}"><span class="em">${ico('t_' + t.fac, 30)}</span><span>${t.name}<br><small>${t.builtDay === G.day ? 'сегодня уже строили' : 'можно строить'}</small></span></div>`).join('') || '<small>Городов нет! Захватите любой за 7 дней</small>';
   document.querySelectorAll('[data-h]').forEach(el => el.onclick = () => { if (!locked()) selectHero(heroById(+el.dataset.h)); });
   document.querySelectorAll('[data-t]').forEach(el => el.onclick = () => { if (!locked()) { const t = G.objs.find(o => o.id === +el.dataset.t); openTown(t, heroAt(t.x, t.y)); } });
   const h = selHero();
   if (h) {
     const s = heroStats(h), nx = xpFor(h.lvl + 1), px = xpFor(h.lvl);
-    $('hCard').innerHTML = `<div style="display:flex;gap:10px;align-items:center"><span style="font-size:42px">${heroIco(h, 56)}</span><div><b style="font-size:17px">${h.name}</b><br><small>${FACTIONS[h.fac].name} · уровень ${h.lvl}${SPECS[h.spec] ? `<br>${ico('i_star', 12)} ${SPECS[h.spec].name}: ${SPECS[h.spec].desc}` : ''}</small></div></div>
-      <div class="stats"><div>${ico('i_att', 18)}${s.att}<small>атака</small></div><div>${ico('i_def', 18)}${s.def}<small>защита</small></div><div>${ico('i_pow', 18)}${s.pow}<small>понты</small></div><div>${ico('i_mana', 18)}${h.mana}<small>из ${maxMana(h)}</small></div></div>
-      <small>Ход: ${Math.floor(h.mp)} / ${heroMaxMp(h)}</small><div class="bar"><i style="width:${100 * h.mp / heroMaxMp(h)}%;background:#6f6"></i></div>
-      <small>Опыт: ${h.xp} / ${nx}</small><div class="bar"><i style="width:${100 * (h.xp - px) / (nx - px)}%;background:#fc3"></i></div>
-      <div class="slots">${h.army.map(a => `<div class="slot" title="${a ? UNITS[a.u].name : ''}">${a ? unitIcon(a.u, 40) + `<b>${a.n}</b>` : ''}</div>`).join('')}</div>
-      <div class="arts">${h.arts.map(a => `<span title="${ARTS[a].name}: ${ARTS[a].desc}">${ico('a_' + a, 32)}</span>`).join('') || '<small>Артефактов нет</small>'}</div>
-      ${G.heroes.filter(o => o.owner === h.owner && o !== h && Math.max(Math.abs(o.x - h.x), Math.abs(o.y - h.y)) <= 1).map(o => `<button class="sec" data-ex="${o.id}" style="margin-top:6px">${ico('i_meet', 16)} Обмен с ${o.name}</button>`).join('')}`;
+    const near = G.heroes.filter(o => o.owner === h.owner && o !== h && Math.max(Math.abs(o.x - h.x), Math.abs(o.y - h.y)) <= 1);
+    $('hCard').innerHTML = `<div class="hc-head">${heroIco(h, 48)}<div><b>${h.name}</b><small>${FACTIONS[h.fac].name} · уровень ${h.lvl}</small>${SPECS[h.spec] ? `<small>${ico('i_star', 11)} ${SPECS[h.spec].name}: ${SPECS[h.spec].desc}</small>` : ''}</div></div>
+      <div class="stats"><div>${ico('i_att', 16)}${s.att}<small>атака</small></div><div>${ico('i_def', 16)}${s.def}<small>защита</small></div><div>${ico('i_pow', 16)}${s.pow}<small>понты</small></div><div>${ico('i_mana', 16)}${h.mana}<small>из ${maxMana(h)}</small></div></div>
+      <div class="meter"><span>Ход</span><span>${Math.floor(h.mp)} / ${heroMaxMp(h)}</span></div><div class="bar"><i style="width:${100 * h.mp / heroMaxMp(h)}%;background:#6f6"></i></div>
+      <div class="meter"><span>Опыт</span><span>${h.xp} / ${nx}</span></div><div class="bar"><i style="width:${100 * (h.xp - px) / (nx - px)}%;background:#fc3"></i></div>
+      <div class="slots sm">${h.army.map(a => `<div class="slot" title="${a ? `${UNITS[a.u].name} ×${a.n}` : 'пусто'}">${a ? unitIcon(a.u, 32) + `<b>${a.n}</b>` : ''}</div>`).join('')}</div>
+      <div class="arts">${h.arts.map(a => `<span title="${ARTS[a].name}: ${ARTS[a].desc}">${ico('a_' + a, 24)}</span>`).join('') || '<small>Артефактов нет</small>'}</div>
+      ${near.length ? `<div class="btns" style="margin-top:6px">${near.map(o => `<button class="sec sm" data-ex="${o.id}">${ico('i_meet', 14)} Обмен с ${o.name}</button>`).join('')}</div>` : ''}`;
     document.querySelectorAll('[data-ex]').forEach(el => el.onclick = () => { if (!locked()) openExchange(h, heroById(+el.dataset.ex)); });
   } else $('hCard').innerHTML = '<small>Выберите героя</small>';
   $('goBtn').disabled = watch || !h || (!h.dest && !UI.plan);
@@ -359,9 +359,9 @@ $('goBtn').onclick = () => continuePath();
 // ---------- миникарта ----------
 const mini = $('mini'), mc = mini.getContext('2d');
 function drawMini() {
-  const k = mini.width / MW, p = viewP();
+  const k = mini.width / MW, p = viewP(); // неразведанное рисуем тёмным силуэтом города, чтобы было видно, где ещё не были
   mc.fillStyle = '#000'; mc.fillRect(0, 0, mini.width, mini.height);
-  for (let y = 0; y < MH; y++) for (let x = 0; x < MW; x++) { if (!p.seen[y * MW + x]) continue; mc.fillStyle = ['#7b7464', '#55555e', '#3f7a36', '#2f6fb0', '#9a9a92', '#a52a2a', '#1e4524'][tileAt(x, y)]; mc.fillRect(x * k, y * k, k, k); }
+  for (let y = 0; y < MH; y++) for (let x = 0; x < MW; x++) { if (!p.seen[y * MW + x]) { if (tileAt(x, y) !== T.FOREST) { mc.fillStyle = '#211a27'; mc.fillRect(x * k, y * k, k, k); } continue; } mc.fillStyle = ['#7b7464', '#55555e', '#3f7a36', '#2f6fb0', '#9a9a92', '#a52a2a', '#1e4524'][tileAt(x, y)]; mc.fillRect(x * k, y * k, k, k); }
   for (const o of G.objs) if ((o.t === 'town' || o.t === 'mine') && p.seen[o.y * MW + o.x]) { mc.fillStyle = o.owner >= 0 ? pcol(o.owner) : '#fff'; const s = o.t === 'town' ? 3 : 2; mc.fillRect(o.x * k - s, o.y * k - s, k + s * 2, k + s * 2); }
   for (const h of G.heroes) if (p.seen[h.y * MW + h.x]) { mc.fillStyle = pcol(h.owner); mc.beginPath(); mc.arc(h.x * k + k / 2, h.y * k + k / 2, 3, 0, 7); mc.fill(); mc.strokeStyle = '#000'; mc.stroke(); }
   mc.strokeStyle = '#fff'; mc.lineWidth = 1; mc.strokeRect(UI.cam.x / TS * k, UI.cam.y / TS * k, VW / TS * k, VH / TS * k);
